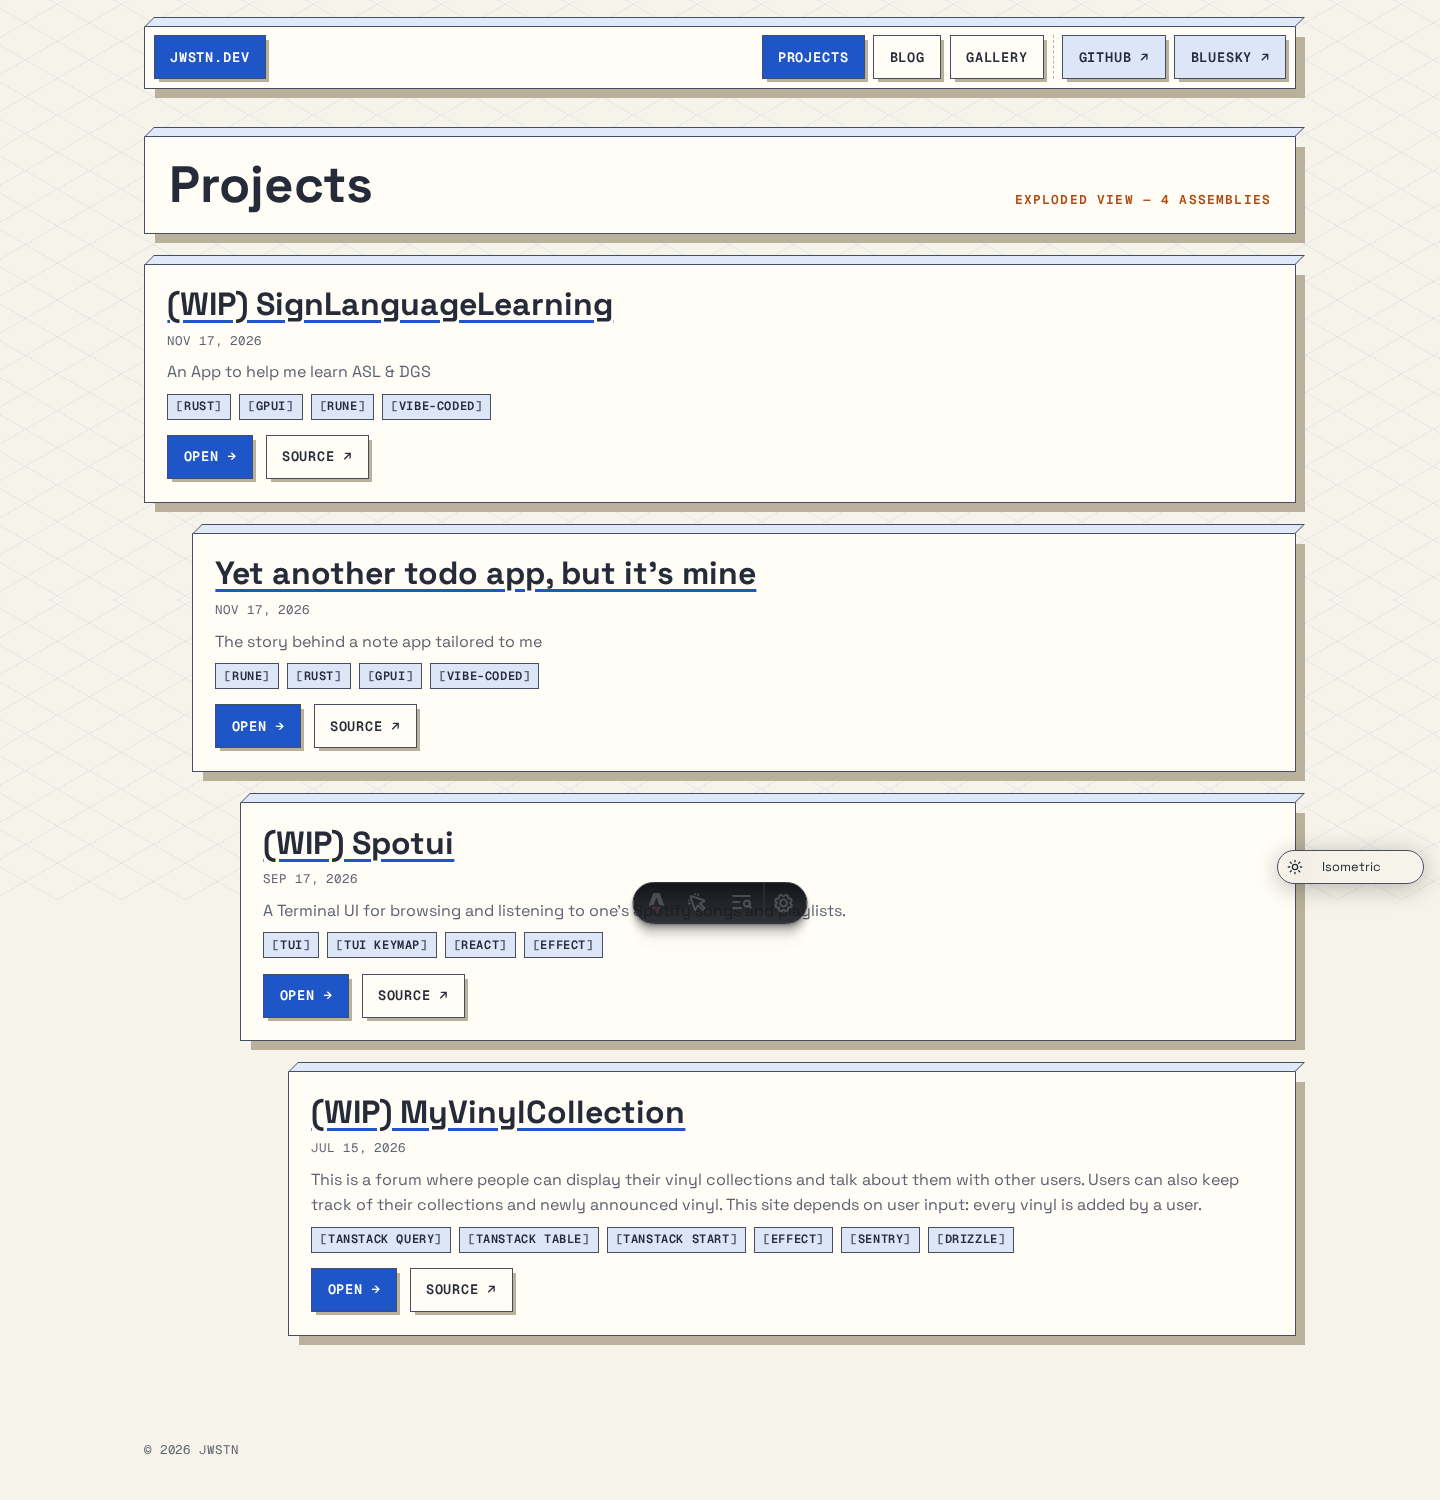
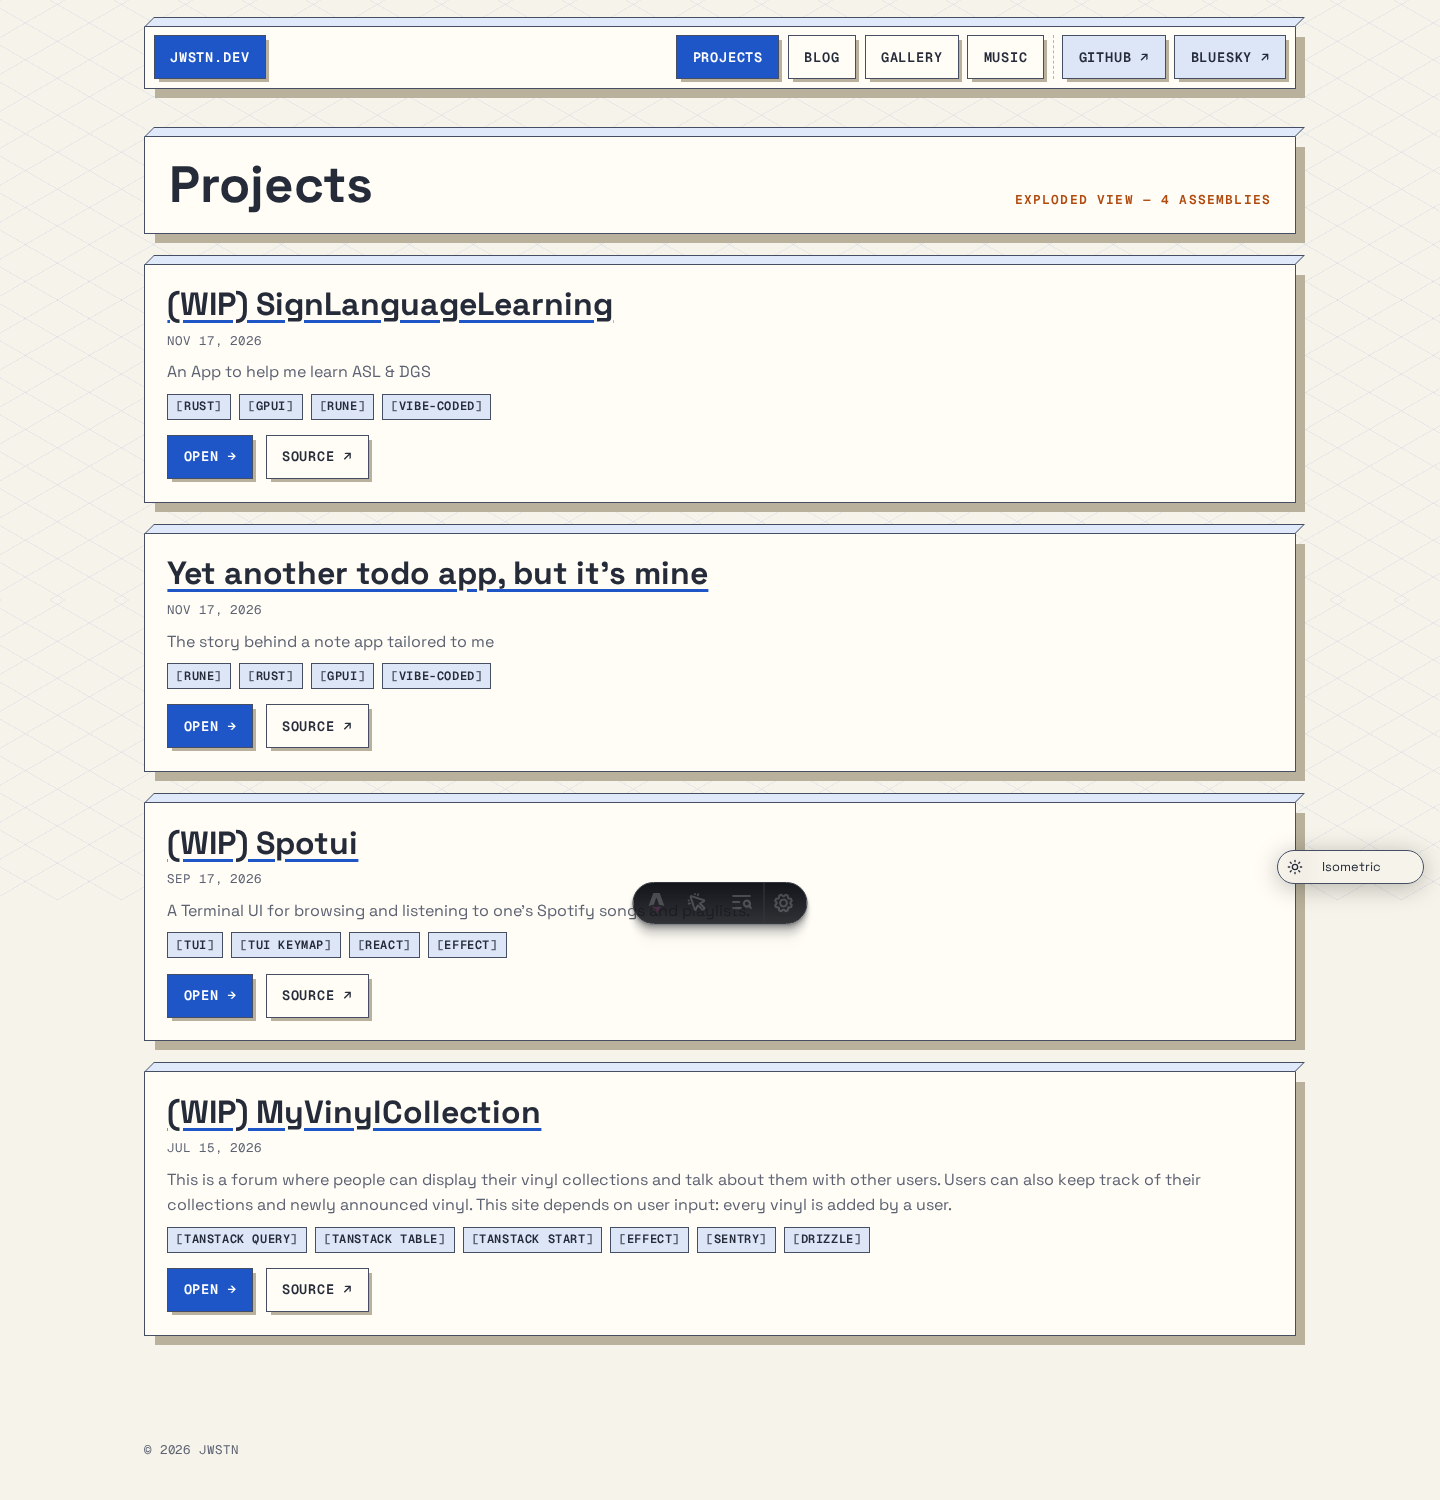
Projects page: remove the exploded-view indent, stack blocks straight (#30)

diff --git a/src/themes/isometric/theme.css b/src/themes/isometric/theme.css
@@ -764,19 +764,6 @@ html.theme-isometric .iso-explode > :nth-child(4).iso-rise {
   animation-delay: 270ms;
 }
 
-/* the exploded view: each block sits one station further right */
-@media (min-width: 64rem) {
-  html.theme-isometric .iso-explode > :nth-child(2) {
-    margin-inline-start: 3rem;
-  }
-  html.theme-isometric .iso-explode > :nth-child(3) {
-    margin-inline-start: 6rem;
-  }
-  html.theme-isometric .iso-explode > :nth-child(4) {
-    margin-inline-start: 9rem;
-  }
-}
-
 /* ------------------------------------------------------------------ */
 /* Detail articles (Project / Post)                                    */
 /* ------------------------------------------------------------------ */
